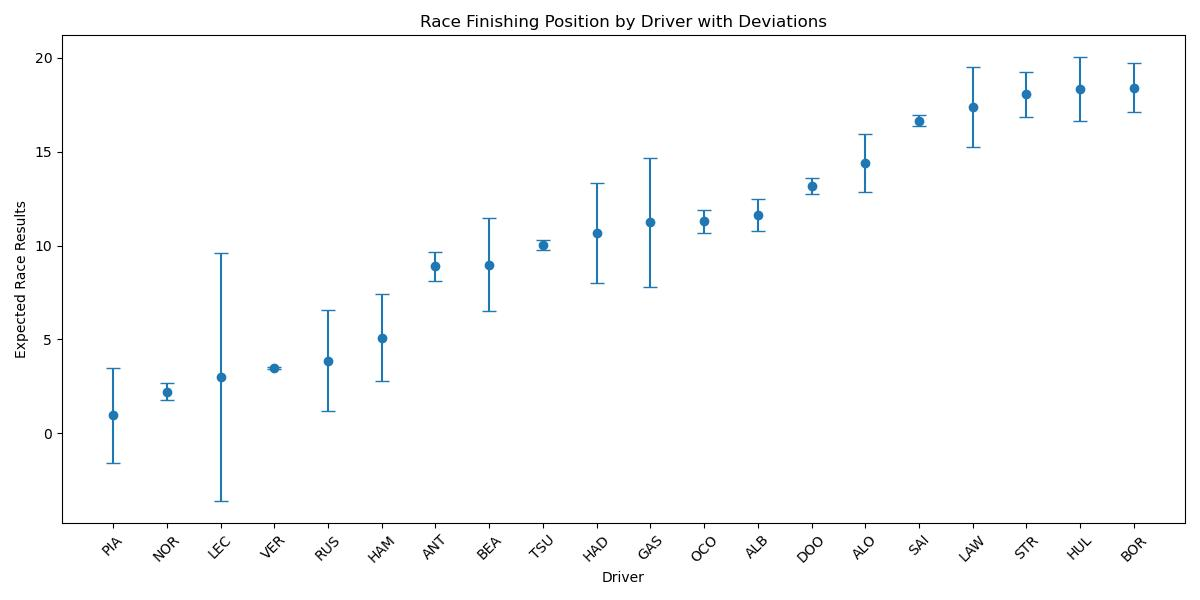
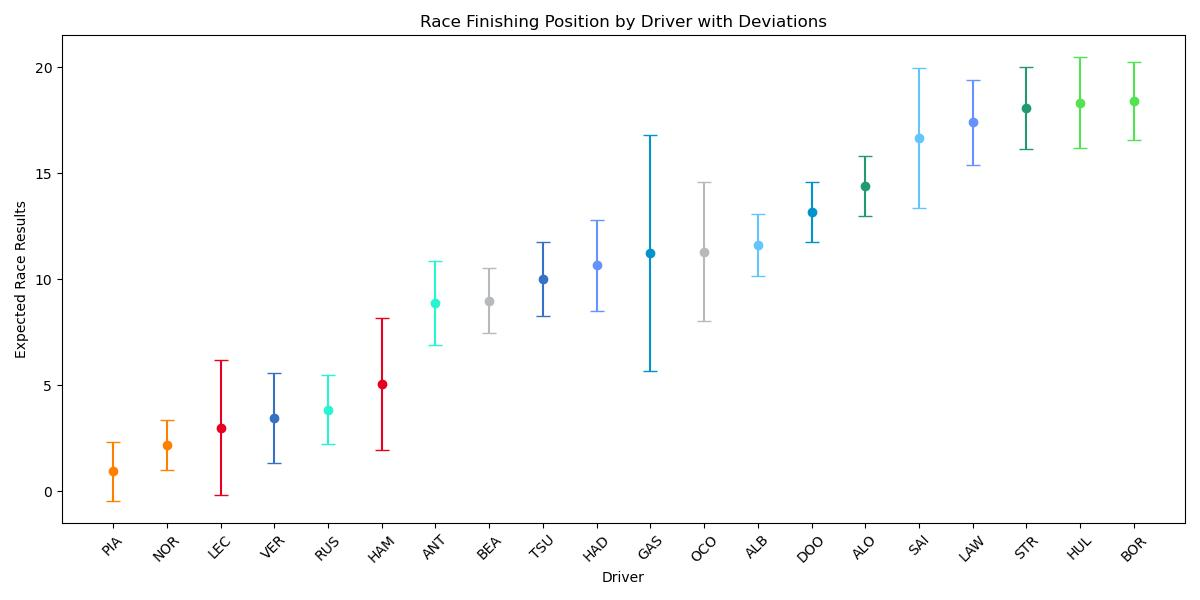
updated prediction method with confidence bounding

diff --git a/code/modeling/models_by_window.py b/code/modeling/models_by_window.py
@@ -516,14 +516,36 @@ def fit_eval_window_model(
     preds.to_csv(f"{predictions_folder}/predictions.csv", index=False)
     
     if std_errors == True:
+        color_dict = {
+            "PIA": "#FF8000",
+            "NOR": "#FF8000", 
+            "RUS": "#27F4D2",
+            "ANT": "#27F4D2",
+            "LEC": "#E80020", 
+            "HAM": "#E80020",
+            "VER": "#3671C6", 
+            "TSU": "#3671C6", 
+            "HAD": "#6692FF",
+            "LAW": "#6692FF", 
+            "STR": "#229971", 
+            "ALO": "#229971", 
+            "GAS": "#0093CC", 
+            "DOO": "#0093CC", 
+            "ALB": "#64C4FF", 
+            "SAI": "#64C4FF", 
+            "BEA": "#B6BABD",
+            "OCO": "#B6BABD",
+            "BOR": "#52E252", 
+            "HUL": "#52E252"
+        }
         # plot qualifying results
         plt.clf()
         plt.figure(figsize=(12,6))
-        plt.errorbar(
-            preds['Driver'], preds['grid'], 
-            yerr=1.96*preds['std_err_q'], 
-            fmt='o', capsize=5
-        )
+        for driver in preds['Driver'].unique(): 
+            tmp = preds.loc[preds['Driver']==driver]
+            plt.errorbar(driver, tmp['grid'].item(),
+                         yerr=1.96*tmp['std_err_q'].item(), 
+                         fmt='o', capsize=3, color=color_dict[driver])
         plt.xlabel("Driver")
         plt.ylabel("Expected Qualifying Position")
         plt.title("Qualifying Position by Driver with Deviations")
@@ -534,11 +556,11 @@ def fit_eval_window_model(
         # plot race results
         plt.clf()
         plt.figure(figsize=(12,6))
-        plt.errorbar(
-            preds['Driver'], preds['positionOrder'],
-            yerr=1.96*preds['std_err_r'],
-            fmt='o', capsize=5
-        )
+        for driver in preds['Driver'].unique(): 
+            tmp = preds.loc[preds['Driver']==driver]
+            plt.errorbar(driver, tmp['positionOrder'].item(),
+                         yerr=1.96*tmp['std_err_r'].item(), 
+                         fmt='o', capsize=5, color=color_dict[driver])
         plt.xlabel("Driver")
         plt.ylabel("Expected Race Results")
         plt.title("Race Finishing Position by Driver with Deviations")
@@ -865,7 +887,7 @@ def main2():
         constructors_data=constructors_data,
         pred_round=5,
         std_errors=True,
-        boot_trials=3
+        boot_trials=1000
     )
     
 if __name__ == "__main__":
